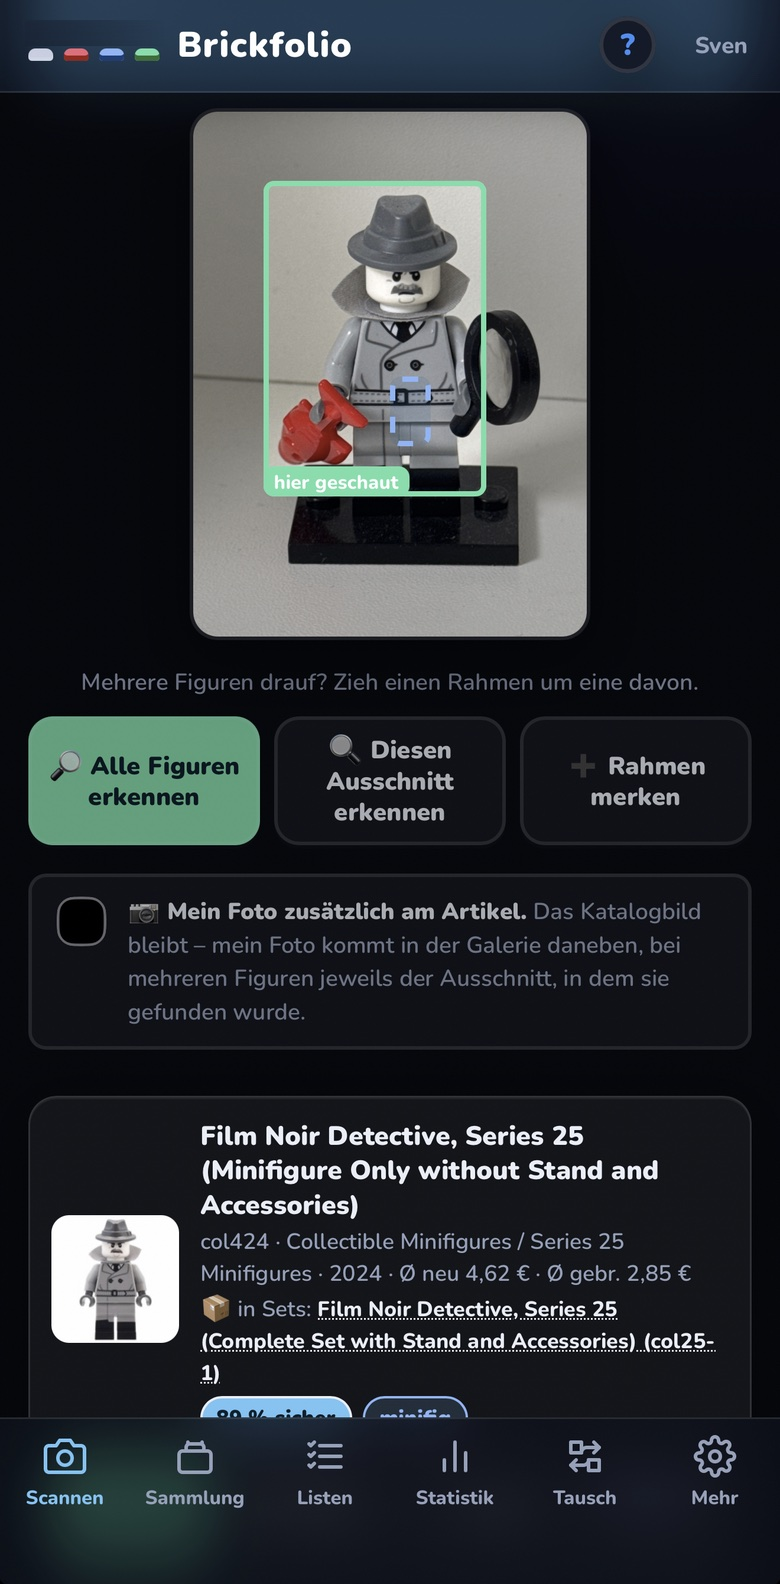
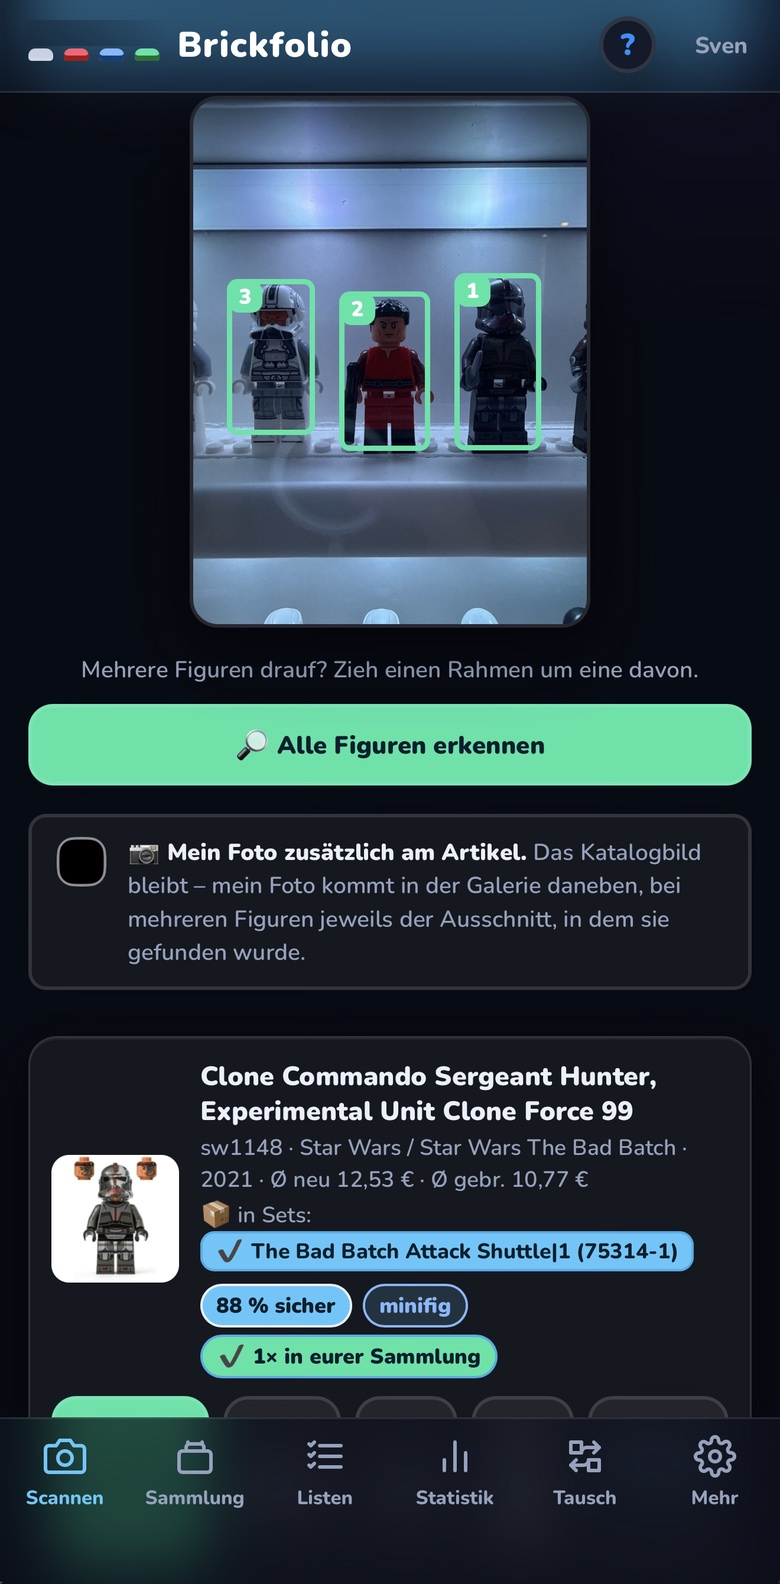
Website: das Aufmacherbild zeigt die Mehrfacherkennung
Drei Figuren nebeneinander, einzeln nummeriert umrahmt, darunter der Treffer
mit Katalognummer, Serie, Jahr, beiden Preisen, dem Set, in dem sie steckt,
und dem Hinweis "1x in eurer Sammlung". Damit zeigt ein einziges Bild, was
sonst drei Kacheln beschreiben - und vor allem das, was die Kachel "Mehrere
auf einmal" verspricht.

Wie zuvor entfernt: der Schriftzug über den Logo-Steinen und die Statusleiste.

diff --git a/website/index.html b/website/index.html
@@ -90,9 +90,9 @@
   <figure class="szene">
     <div class="geraet">
       <img src="assets/scan-display.jpg" width="780" height="1584"
-           alt="Brickfolio im Scanmodus: die Minifigur im Kamerafeld, grün umrahmt, darunter der erkannte Treffer aus dem Katalog">
+           alt="Brickfolio im Scanmodus: drei Minifiguren im Kamerafeld, einzeln nummeriert umrahmt, darunter der erkannte Treffer mit Katalogdaten und Preisen">
     </div>
-    <figcaption>Draufhalten – erkannt, mit Nummer, Serie und beiden Preisen. Ein Tipp, und sie steht in der Sammlung</figcaption>
+    <figcaption>Drei Figuren auf einmal erkannt – mit Nummer, Serie und Preisen, und dem Hinweis, dass eine davon längst in der Sammlung steht</figcaption>
   </figure>
 
   <div class="shots">

diff --git a/backend/integrations.py b/backend/integrations.py
@@ -255,16 +255,20 @@ def recognize(raw_image: bytes) -> dict:
     box = data.get("bounding_box") or {}
     rahmen = None
     if all(k in box for k in ("left", "upper", "right", "lower")):
-        # **Der Rahmen kommt in den Maßen des Bildes, das der Dienst bekommen
-        # hat** – und das ist das hier verkleinerte, nicht das hochgeladene.
-        # Der Browser zeichnet ihn aber in den Maßen *seines* Bildes. Schickt
-        # er etwas Größeres als `max_side`, saßen die Rahmen deshalb zu klein
-        # und zu weit links oben, und zwar um genau dieses Verhältnis.
+        # **Der Rahmen kommt in den Maßen des Bildes, auf dem der Dienst
+        # gearbeitet hat – und die sind nicht die, die er bekommen hat.**
+        # Brickognize rechnet selbst auf höchstens 1024 Pixel herunter: Aus
+        # 900×1200 wird dort 768×1024. Der Browser zeichnete den Rahmen aber
+        # in den Maßen seines eigenen Bildes, also um 1024/1200 = 0,853 zu
+        # klein und entsprechend zu weit links oben.
         #
-        # Nachgemessen am 20.09.2026 an einem Foto mit drei Figuren: Die
-        # Rahmen lagen bei 0,86 der richtigen Größe — 1200/1400. Der Dienst
-        # selbst rahmt sauber ein (eigens geprüft), und beide Zahlen, die es
-        # dafür braucht, liefert er mit: `image_width` und `image_height`.
+        # Am 20.09.2026 am Protokoll belegt (`Upload 900x1200, Dienst
+        # 768x1024`); die Vermutung davor – der Browser habe zu groß
+        # geschickt – war falsch. Der Dienst selbst rahmt sauber ein (eigens
+        # geprüft, indem sein Rahmen ins Foto gezeichnet wurde), und beide
+        # Zahlen zum Zurückrechnen liefert er mit: `image_width`,
+        # `image_height`. Dasselbe greift, wenn `prepare_image` oben
+        # verkleinert hat – der Weg ist derselbe.
         fx = fy = 1.0
         dienst_b = float(box.get("image_width") or 0)
         dienst_h = float(box.get("image_height") or 0)
@@ -275,15 +279,15 @@ def recognize(raw_image: bytes) -> dict:
                 eigen_b = eigen_h = 0
             if eigen_b and eigen_h:
                 fx, fy = eigen_b / dienst_b, eigen_h / dienst_h
-                if abs(fx - 1) > 0.01 or abs(fy - 1) > 0.01:
-                    # **Eine Zeile ins Container-Protokoll, wenn umgerechnet
-                    # werden musste.** Der Browser soll selbst auf 1200
-                    # verkleinern; tut er es nicht, ist das ein Hinweis auf
-                    # eine fehlgeschlagene Verkleinerung auf dem Gerät – und
-                    # anders als die Spur im Browser ist diese Zeile von außen
-                    # lesbar. Sie kommt nur im Ausnahmefall.
-                    print(f"[scan] Rahmen umgerechnet: Upload {eigen_b}x"
-                          f"{eigen_h}, Dienst {dienst_b:.0f}x{dienst_h:.0f}",
+                # Umgerechnet wird **immer**, das ist der Normalfall und
+                # keine Meldung wert. Auffällig ist nur, wenn der Browser
+                # gar nicht erst verkleinert hat: Dann ist auf dem Gerät
+                # etwas schiefgegangen (siehe `verkleinern()` im Frontend),
+                # und anders als die Spur im Browser ist diese Zeile von
+                # außen lesbar.
+                if max(eigen_b, eigen_h) > 1300:
+                    print(f"[scan] Bild kam ungekürzt an: {eigen_b}x{eigen_h}"
+                          f" (Dienst {dienst_b:.0f}x{dienst_h:.0f})",
                           flush=True)
         rahmen = {"left": box["left"] * fx, "upper": box["upper"] * fy,
                   "right": box["right"] * fx, "lower": box["lower"] * fy,

diff --git a/tests/test_scan_rahmen.py b/tests/test_scan_rahmen.py
@@ -1,14 +1,27 @@
 """Der Rahmen aus der Erkennung muss zum Bild des Browsers passen.
 
 Brickognize rahmt sauber ein – geprüft am 20.09.2026 mit einem eigenen Foto,
-der zurückgegebene Rahmen lag genau auf der Figur. Nur: Er gilt für das Bild,
-das der **Dienst** bekommen hat, und das ist das in `prepare_image`
-verkleinerte. Der Browser zeichnet ihn aber in den Maßen *seines* Bildes.
+der zurückgegebene Rahmen lag genau auf der Figur. Nur gilt er für das Bild,
+auf dem der **Dienst** gearbeitet hat, und das ist nicht das geschickte: Er
+rechnet selbst auf höchstens 1024 Pixel herunter. Aus 900×1200 wird dort
+768×1024, und ein Rahmen daraus sitzt im Browser um 1024/1200 = 0,853 zu
+klein und zu weit links oben.
 
-Schickt er etwas Größeres als `max_side`, lagen die Rahmen deshalb zu klein
-und zu weit links oben – auf Svens Foto mit drei Figuren um den Faktor 0,86,
-also 1200/1400. Sichtbar wurde es erst bei mehreren Figuren nebeneinander:
-Bei einer einzelnen sieht ein etwas zu kleiner Rahmen richtig aus.
+Sichtbar wurde es erst bei mehreren Figuren nebeneinander: Bei einer
+einzelnen sieht ein etwas zu kleiner Rahmen richtig aus.
+
+**Zwei falsche Fährten auf dem Weg dahin**, beide hier festgehalten, damit
+sie niemand noch einmal verfolgt:
+
+1. Eine erste Probe mit demselben Motiv in zwei Größen (600×800, 450×600)
+   zeigte den Dienst die geschickten Maße *echoen* – beide lagen aber unter
+   1024, wo er nichts verkleinert.
+2. Daraufhin galt der Browser als Verursacher (er habe größer als 1200
+   geschickt). Das Protokoll des Servers zeigte dann `Upload 900x1200,
+   Dienst 768x1024`: Der Browser war es nie.
+
+Die Umrechnung nimmt deshalb `image_width`/`image_height` aus der Antwort –
+die Zahlen gelten, ganz gleich wer verkleinert hat.
 """
 import io
 
@@ -65,7 +78,8 @@ def dienst(monkeypatch):
 
 
 def test_grosses_bild_wird_zurueckgerechnet(dienst):
-    """1400 px hoch hochgeladen, 1200 px beim Dienst – der Rahmen wächst mit."""
+    """Der Dienst arbeitet kleiner, als hochgeladen wurde – der Rahmen wächst
+    auf die Maße des Uploads zurück."""
     d = integrations.recognize(_bild(1050, 1400))
     assert dienst["masse"] == (900, 1200), "der Dienst sieht das verkleinerte Bild"
     r = d["box"]
@@ -104,3 +118,22 @@ def test_ohne_masse_vom_dienst_bleibt_alles_wie_es_war(monkeypatch):
     monkeypatch.setattr(integrations.requests, "post", post)
     r = integrations.recognize(_bild(2000, 2000))["box"]
     assert (r["left"], r["upper"], r["right"], r["lower"]) == (10, 20, 30, 40)
+
+
+def test_dienst_rechnet_selbst_kleiner(monkeypatch):
+    """**Der eigentliche Fall, gemessen am 20.09.2026.**
+
+    Der Browser schickt 900×1200 – richtig verkleinert. Brickognize rechnet
+    intern auf 768×1024 herunter und antwortet in diesen Maßen. Ohne
+    Umrechnung säße jeder Rahmen um 0,853 zu klein.
+    """
+    def post(url, files=None, **rest):
+        return _Antwort({"left": 128.0, "upper": 256.0, "right": 384.0,
+                         "lower": 768.0, "image_width": 768.0,
+                         "image_height": 1024.0, "score": 0.9})
+    monkeypatch.setattr(integrations.requests, "post", post)
+    r = integrations.recognize(_bild(900, 1200))["box"]
+    assert r["left"] == pytest.approx(128 * 900 / 768, abs=0.5)
+    assert r["upper"] == pytest.approx(256 * 1200 / 1024, abs=0.5)
+    assert r["right"] == pytest.approx(384 * 900 / 768, abs=0.5)
+    assert r["lower"] == pytest.approx(768 * 1200 / 1024, abs=0.5)
